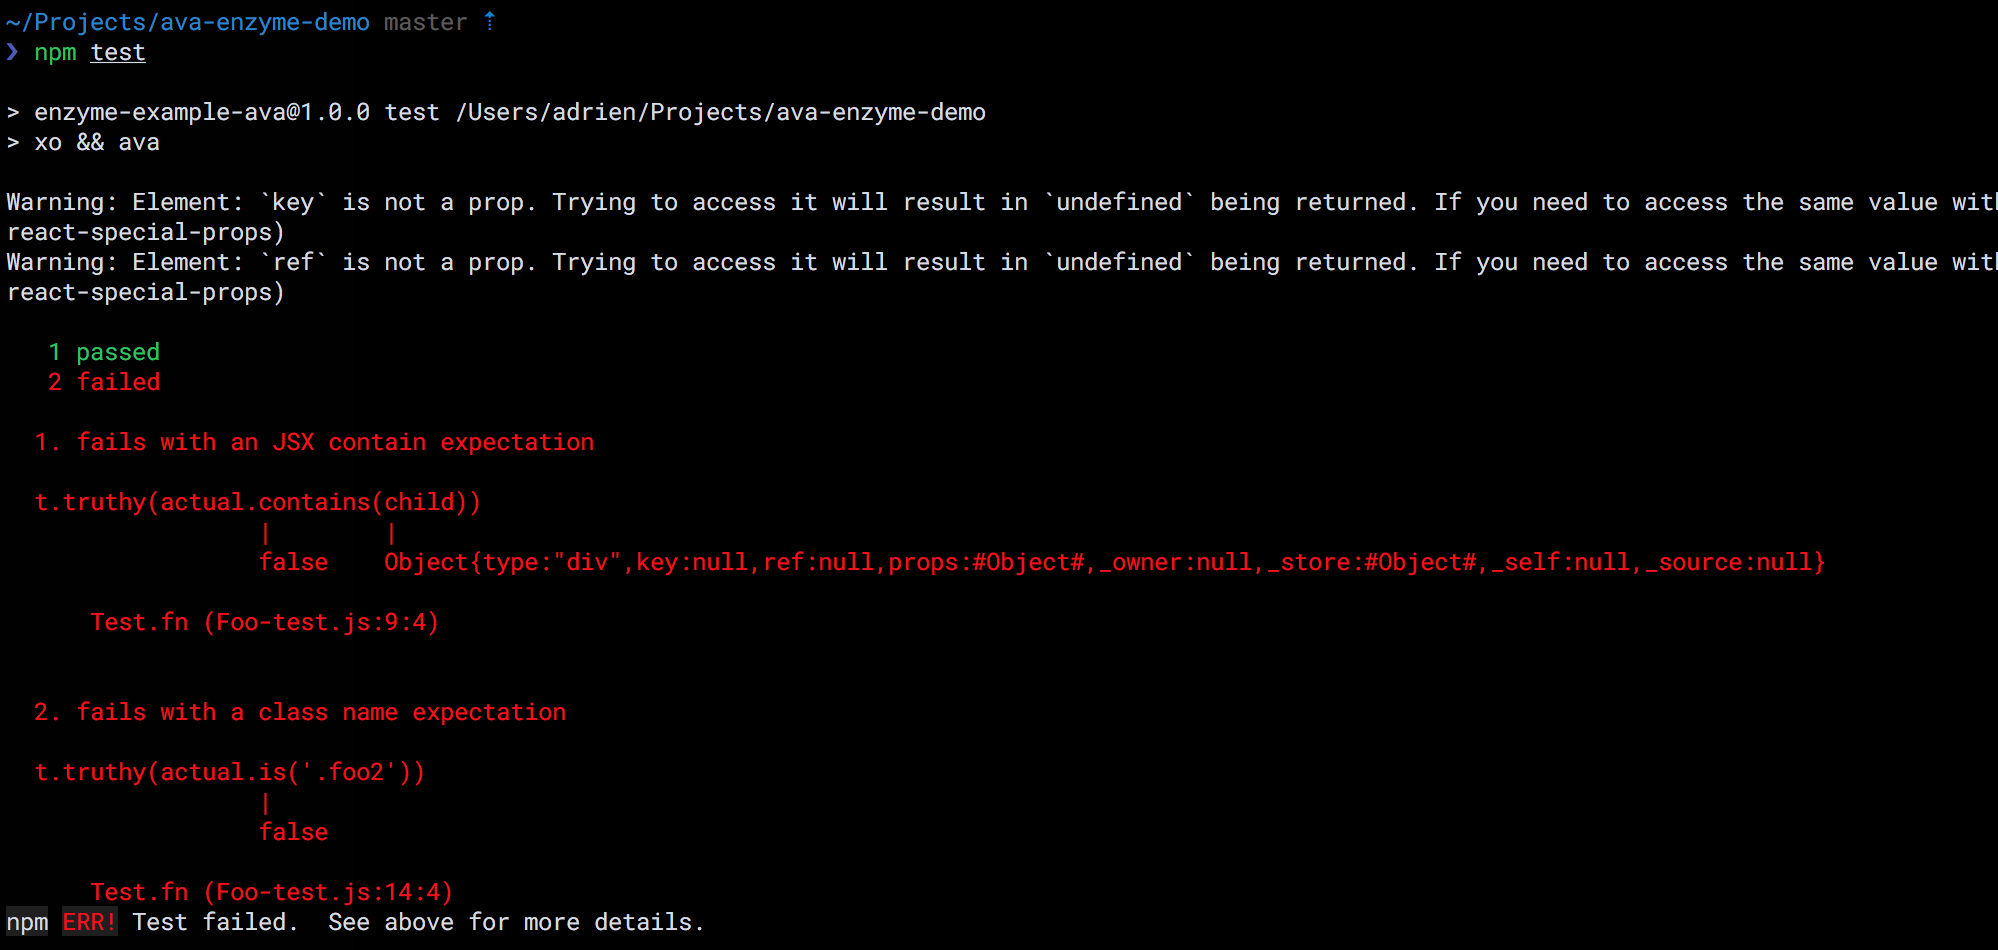
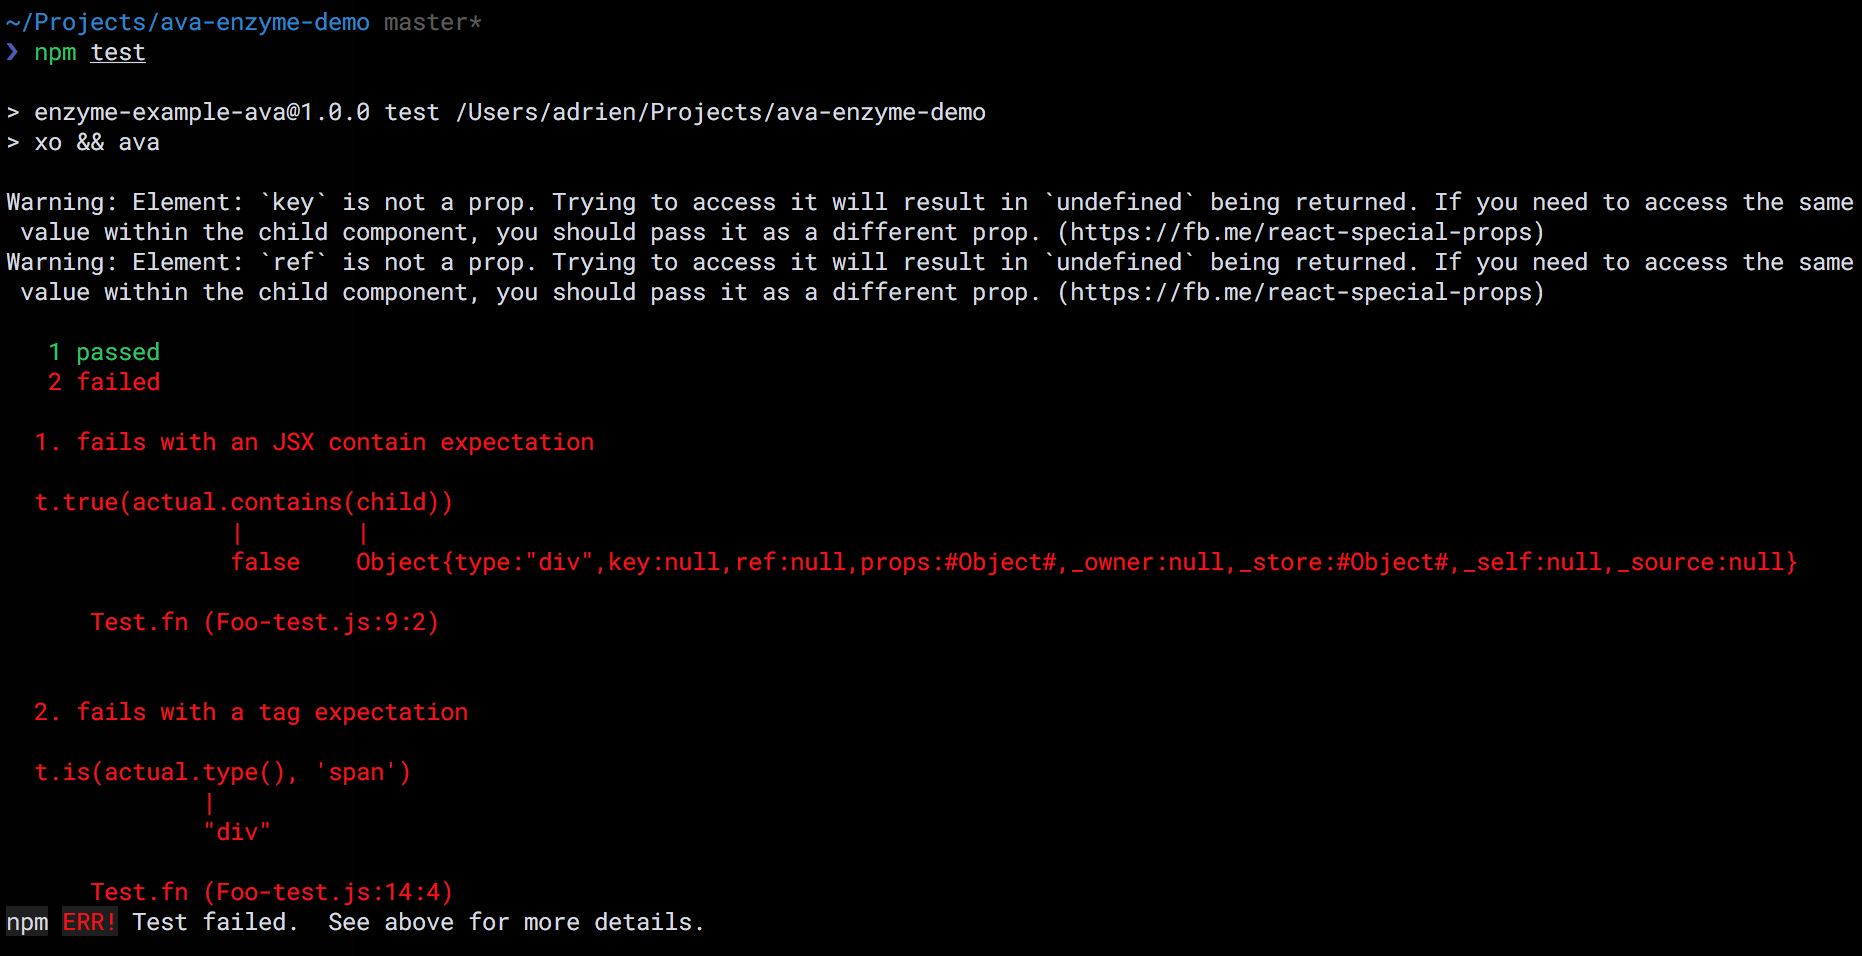
Updated tests and screenshot

diff --git a/test/Foo-test.js b/test/Foo-test.js
@@ -6,12 +6,12 @@ import Foo from '../src/Foo';
 test('fails with an JSX contain expectation', t => {
 	var actual = shallow(<Foo/>);
 	var child = <div className="foo"/>;
-	t.truthy(actual.contains(child));
+	t.true(actual.contains(child));
 });
 
-test('fails with a class name expectation', t => {
+test('fails with a tag expectation', t => {
 	var actual = shallow(<Foo/>);
-	t.truthy(actual.is('.foo2'));
+	t.is(actual.type(), 'span');
 });
 
 test('is a success with a mount and a child expectation', t => {
